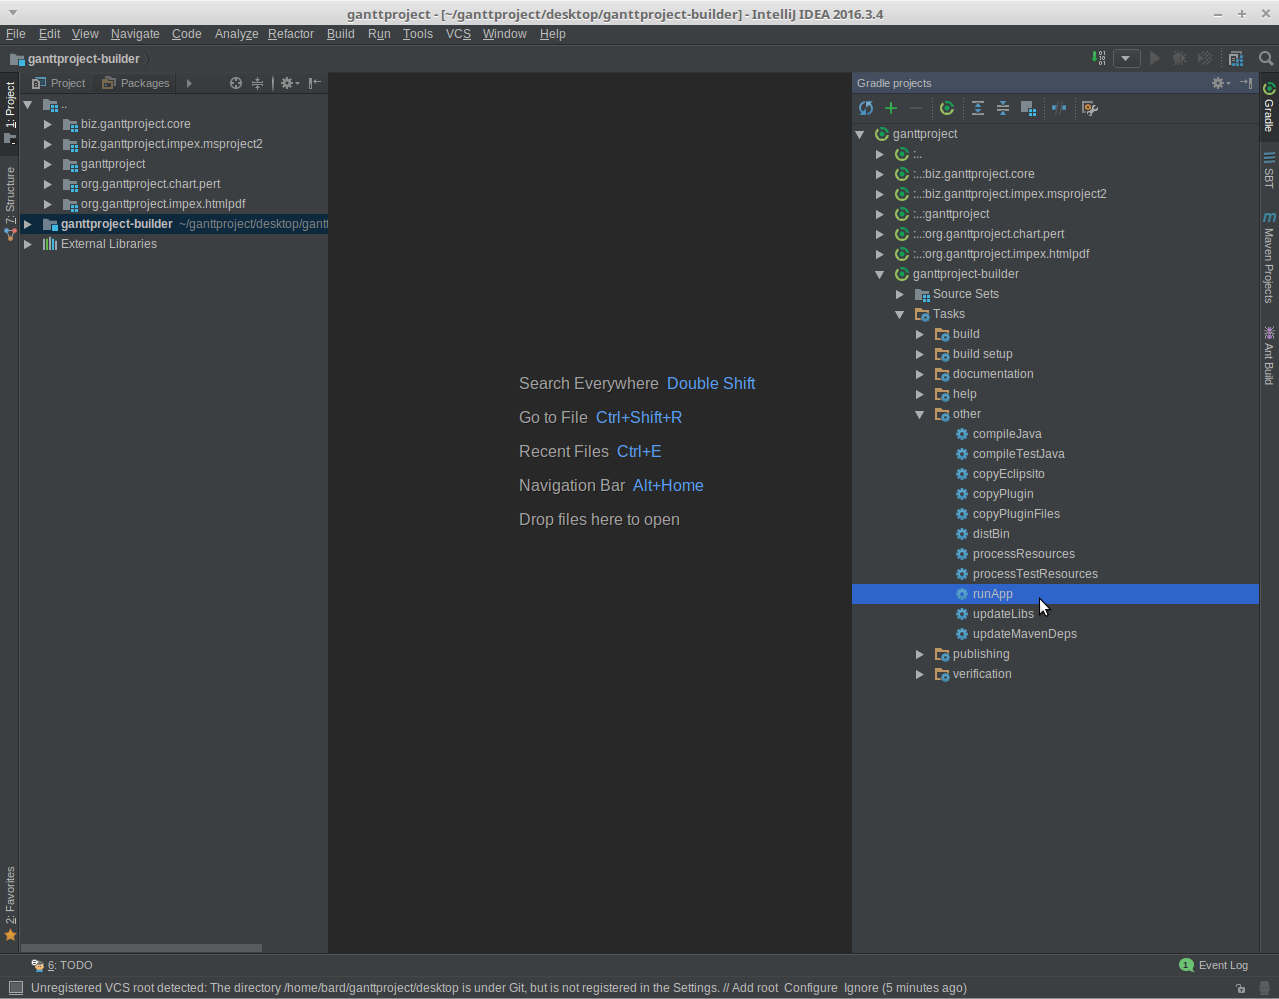
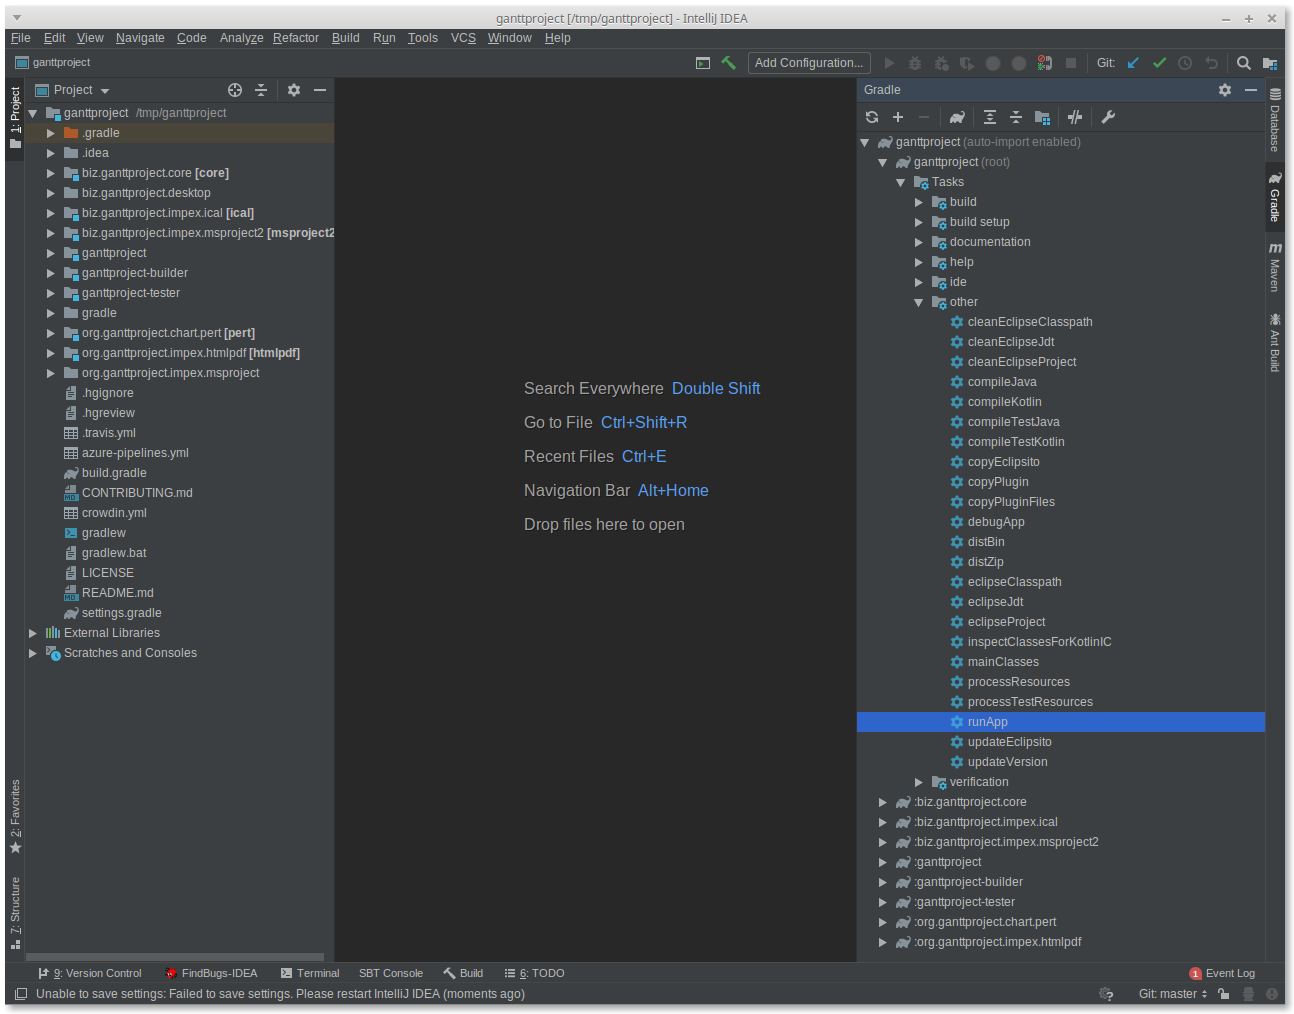
Updated build instructions for building master branch

Changed region(s): [[0.0, 0.0, 1.0, 1.0], [0.3964, 0.3724, 0.6099, 0.5275]]

diff --git a/docs/development/build.md b/docs/development/build.md
@@ -4,7 +4,7 @@ The instructions assume that you're using Ubuntu-based Linux distribution.
 The process on other distros and Windows/Mac OSX should be similar,
 modulo differences in packages/paths and the way command line terminal works.
 
-## Overview of the technologies and frameworks used in the build process
+## Overview of the build technologies and frameworks
 
 GanttProject build process uses Java, Kotlin and Google Protocol Buffers compilers. Orchestrating them
 is not trivial, so be prepared to have some fun with setting up the things.
@@ -14,16 +14,11 @@ is not trivial, so be prepared to have some fun with setting up the things.
 A bare minimum which you need is:
 
 1. [Java SE Development Kit](http://www.oracle.com/technetwork/java/javase/downloads/index.html) (JDK)
-version 8 from Oracle or [OpenJDK](http://openjdk.java.net). Later versions of JDK may or may not work for you. There
-were major changes in JDK packaging, and we did not test the build process with the latest JDK.
-2. [JavaFX  libraries](http://docs.oracle.com/javase/8/javafx/get-started-tutorial/jfx-overview.htm). JavaFX is
-bundled with Oracle's JDK 8, but if you're using OpenJDK then you need to install JavaFX separately. It is
-available as `openjfx` in Ubuntu repositories.
-3. [Gradle](http://gradle.org) build tool for most of the development tasks.
-If you're going to build DEB package or Mac OSX app you'll also need [ANT](http://ant.apache.org).
-4. [Git](https://git-scm.com) version control to checkout the sources.
+version 11 from Oracle or [OpenJDK](http://openjdk.java.net). JDK builds from other vendors, such as Amazon or AdoptOpenJdk may also work fine.
+2. [Git](https://git-scm.com) version control to checkout the sources.
+3. Optionally you may install [Gradle](http://gradle.org) build tool. If you don't have Gradle, it will be downloaded automatically when running `gradlew` scripts.
 
-Please make sure that you can run ``java``, ``javac``, ``git`` and ``gradle`` commands.
+Please make sure that you can run ``java``, ``javac`` and ``git`` commands.
 
 ## Checking out the sources
 
@@ -34,24 +29,11 @@ You can clone the repository using
     git clone https://github.com/bardsoftware/ganttproject.git
 ```
 
-We also publish self-sufficient archives with the sources of the stable versions.
-The latest published is [GanttProject 2.8.9](https://github.com/bardsoftware/ganttproject/archive/ganttproject-2.8.9.zip)
-
 The rest of this page assumes that you checked out the sources using one of the ways into `/tmp/ganttproject` directory.
 
 ## Branches
 
 This document assumes that you work with `master` branch or with your own branch forked from `master`
-
-## Downloading the required libraries
-
-Before building you need to download some required libraries and frameworks. Run the following command to fetch them  from
-Maven  repositories:
-
-```
-    cd /tmp/ganttproject/ganttproject-builder
-    gradle updateLibs
-```
 
 ## Building with Gradle
 
@@ -59,8 +41,8 @@ If everything is OK with your environment then the following will build
 a binary distribution of GanttProject:
 
 ```
-    cd /tmp/ganttproject/ganttproject-builder
-    gradle updateLibs distBin
+    cd /tmp/ganttproject/
+    ./gradlew distbin
 ```
 
 The distribution is assembled in  `ganttproject-builder/dist-bin` directory. You can
@@ -71,8 +53,10 @@ run GanttProject using `ganttproject` or `ganttproject.bat` script:
     ./ganttproject
 ```
 
-You can also start GanttProject using `gradle runApp` which will build a distro and launch
+You can also start GanttProject using `./gradlew runApp` which will build a distro and launch
 GanttProject as necessary.
+
+If you don't need a ready-to-use distro, you can run `./gradlew build` which will build code and run tests.
 
 Basically, that's everything that you need to be able to change the sources using any text editor,
  build and run the changed code.
@@ -86,13 +70,16 @@ but other popular IDEs can also be used in a similar way.
 
 IDEA [supports Gradle](https://www.jetbrains.com/help/idea/2016.3/gradle.html) out of the box.
 You can just import GanttProject with `File.New.Project from Existing Sources` menu action in IDEA
-where you need to choose `ganttproject-builder/build.gradle` file. When asked about the modules,
-uncheck module `..` as shown on the screenshot below
+where you need to choose `build.gradle` file from the repository root. 
 
 ![Screenshot](/img/development/idea-gradle-import.png)
 
+You may want to check `Use auto-import` and uncheck `Create separate module per source set` options. Make sure that you use Java 11. You may use local Gradle distro if you have one.
+
+![Screenshot](/img/development/idea-gradle-import-settings.png)
+
 Having completed the import, you can run GanttProject using Gradle's runApp task. Open Gradle
-pane in IDEA, find task `runApp` in `ganttproject-builder/build.gradle` file,
+pane in IDEA, find task `runApp` in `ganttproject/build.gradle` file,
 right-click and choose `Run` or `Debug`.
 
 ![Screenshot](/img/development/idea-run-ganttproject.png)
